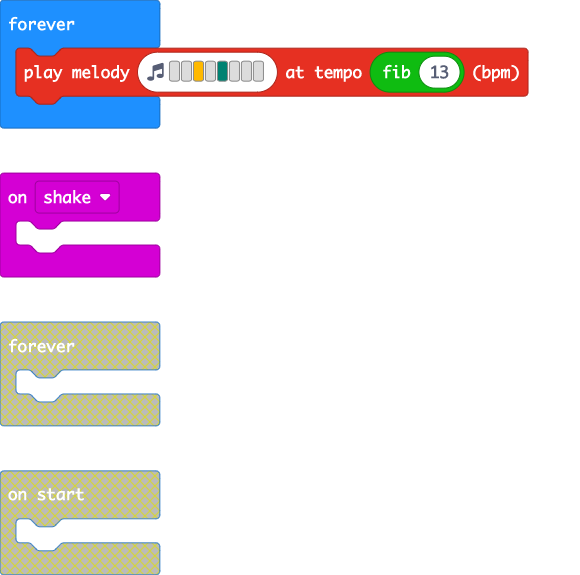
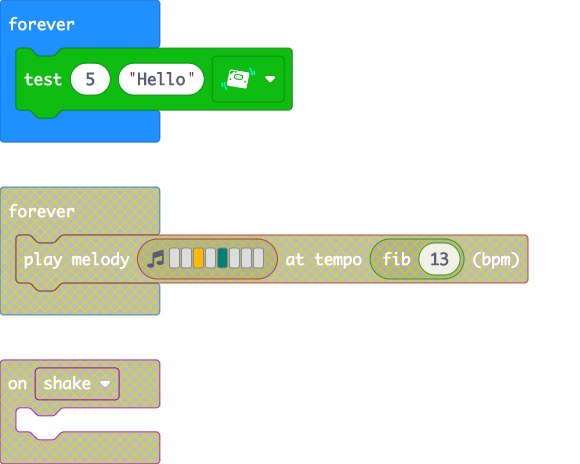
Update main.blocks, main.ts, custom.ts

diff --git a/custom.ts b/custom.ts
@@ -19,9 +19,11 @@ namespace custom {
      * @param e describe parameter here
      */
     //% block
-    export function Test(n: number, s: string, e: Gesture): void {
+    export function Test(e: Gesture): void {
         if (e === Gesture.Shake){
-            music.playTone(262, music.beat(BeatFraction.Whole))
+            music.playMelody("C5 C C5 C B D A F ", 120)
+        } if(e === Gesture.FreeFall){
+            music.playMelody("C5 A B G A F G E ", 120)
         }
     }
 

diff --git a/main.ts b/main.ts
@@ -1,6 +1,3 @@
-input.onGesture(Gesture.Shake, function () {
-	
-})
 basic.forever(function () {
-    music.playMelody("- - A - F - - - ", custom.fib(13))
+    custom.Test(Gesture.Shake)
 })
